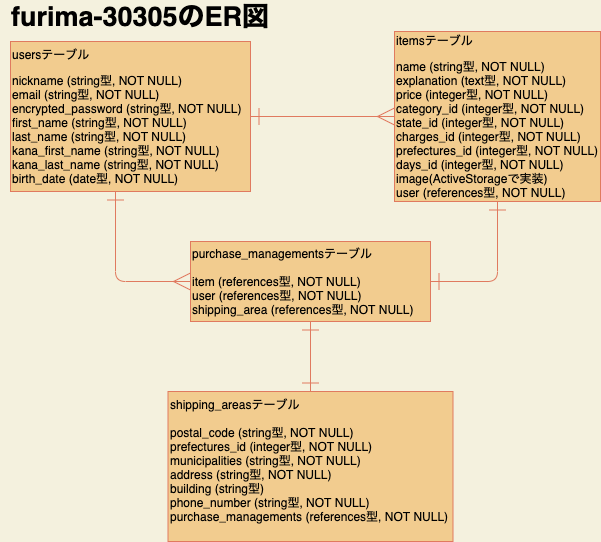
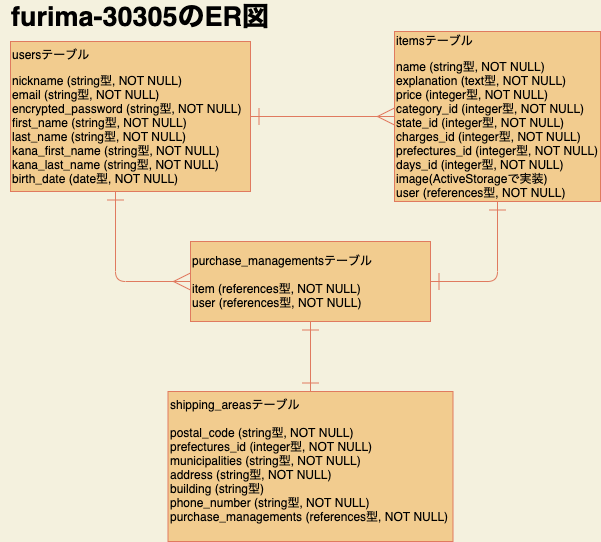
purchase_managementsテーブルの修正
shipping_areasとのアソシエーションは親子関係で既に実現されているため。

Changed region(s): [[0.2995, 0.4428, 0.6889, 0.5904]]

diff --git a/README.md b/README.md
@@ -38,7 +38,6 @@ _ belongs_to :purchase_management
 |---------------|------------|-------------------------------|
 | item          | references | null:false, foreign_key: true |
 | user          | references | null:false, foreign_key: true |
-| shipping_area | references | null:false, foreign_key: true |
 
 ### Association
 _ belongs_to :user
